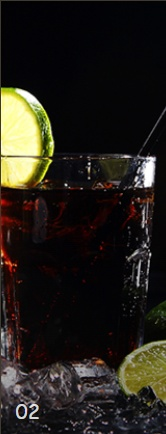
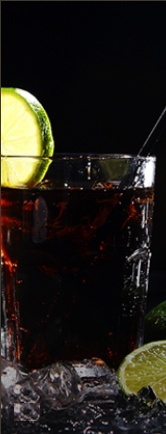
feat: refine split menu cards - remove 01/02 and status labels, style CTAs as solid champagne-gold buttons

Changed region(s): [[0.0602, 0.9286, 0.241, 0.9885]]

diff --git a/index.html b/index.html
@@ -490,7 +490,6 @@
       <article class="card menu-split-card" data-reveal>
         <div class="menu-split-card__media">
           <img src="media/menu-card-split-1-hd.jpg" alt="Shozna Restaurant À La Carte Cuisine" class="menu-split-card__img" loading="lazy" width="498" height="1302">
-          <span class="menu-split-card__num numeric" aria-hidden="true">01</span>
         </div>
         <div class="menu-split-card__content">
           <span class="menu-split-card__notch-v" aria-hidden="true"></span>
@@ -529,10 +528,9 @@
           </ul>
           <div class="menu-split-card__divider" aria-hidden="true"></div>
           <div class="menu-split-card__footer">
-            <a class="menu-split-card__cta" href="https://www.srsdraft.co.uk/shozna-2026/restaurant-menu">
-              <span>VIEW &Agrave; LA CARTE MENU</span> &rarr;
+            <a class="btn btn--solid menu-split-card__btn" href="https://www.srsdraft.co.uk/shozna-2026/restaurant-menu">
+              VIEW &Agrave; LA CARTE MENU &rarr;
             </a>
-            <span class="menu-split-card__status">PDF COMING SOON</span>
           </div>
         </div>
       </article>
@@ -541,7 +539,6 @@
       <article class="card menu-split-card" data-reveal>
         <div class="menu-split-card__media">
           <img src="media/menu-card-split-2-hd.jpg" alt="Shozna Takeaway Cuisine and Bar Drinks" class="menu-split-card__img" loading="lazy" width="498" height="1302">
-          <span class="menu-split-card__num numeric" aria-hidden="true">02</span>
         </div>
         <div class="menu-split-card__content">
           <span class="menu-split-card__notch-v" aria-hidden="true"></span>
@@ -580,10 +577,9 @@
           </ul>
           <div class="menu-split-card__divider" aria-hidden="true"></div>
           <div class="menu-split-card__footer">
-            <a class="menu-split-card__cta" href="https://backoffice.chefonline.co.uk/draft/shozna/menu">
-              <span>ORDER FOR COLLECTION</span> &rarr;
+            <a class="btn btn--solid menu-split-card__btn" href="https://backoffice.chefonline.co.uk/draft/shozna/menu">
+              ORDER FOR COLLECTION &rarr;
             </a>
-            <span class="menu-split-card__status">ONLINE ORDERING</span>
           </div>
         </div>
       </article>

diff --git a/css/site.css b/css/site.css
@@ -1584,20 +1584,6 @@ body[data-page="home"] .nav__home-link {
   pointer-events: none;
 }
 
-.menu-split-card__num {
-  position: absolute;
-  bottom: 1.15rem;
-  left: 1.25rem;
-  font-family: var(--font-family);
-  font-size: clamp(2.2rem, 3.5vw, 2.9rem);
-  font-weight: 300;
-  color: #ffffff;
-  letter-spacing: 0.04em;
-  line-height: 1;
-  text-shadow: 0 2px 10px rgba(0, 0, 0, 0.9);
-  z-index: 2;
-  user-select: none;
-}
 
 .menu-split-card__content {
   position: relative;
@@ -1688,44 +1674,30 @@ body[data-page="home"] .nav__home-link {
   height: 1px;
   background: rgba(228, 197, 144, 0.18);
   margin-top: auto;
-  margin-bottom: 1rem;
+  margin-bottom: 1.25rem;
 }
 
 .menu-split-card__footer {
   display: flex;
-  justify-content: space-between;
-  align-items: flex-end;
-  gap: 0.75rem;
+  align-items: center;
+  width: 100%;
 }
 
-.menu-split-card__cta {
-  color: #e4c590;
-  font-family: var(--font-family);
+.menu-split-card__btn {
+  width: 100%;
+  text-align: center;
+  justify-content: center;
+  padding: 0.85rem 1.4rem;
   font-size: 0.78rem;
   font-weight: 700;
-  letter-spacing: 0.14em;
-  text-transform: uppercase;
-  text-decoration: none;
-  line-height: 1.3;
-  transition: color 0.2s ease, transform 0.2s ease;
-  display: inline-flex;
-  align-items: center;
-  gap: 0.4rem;
+  letter-spacing: 0.16em;
+  box-shadow: 0 4px 15px rgba(0, 0, 0, 0.35);
+  transition: all var(--dur-fast) var(--ease-out);
 }
 
-.menu-split-card__cta:hover {
-  color: #ffffff;
-  transform: translateX(3px);
-}
-
-.menu-split-card__status {
-  font-size: 0.64rem;
-  font-weight: 600;
-  letter-spacing: 0.15em;
-  color: #767066;
-  text-transform: uppercase;
-  white-space: nowrap;
-  padding-bottom: 1px;
+.menu-split-card__btn:hover {
+  transform: translateY(-2px);
+  box-shadow: 0 8px 25px rgba(228, 197, 144, 0.3);
 }
 
 @media (max-width: 991px) {
